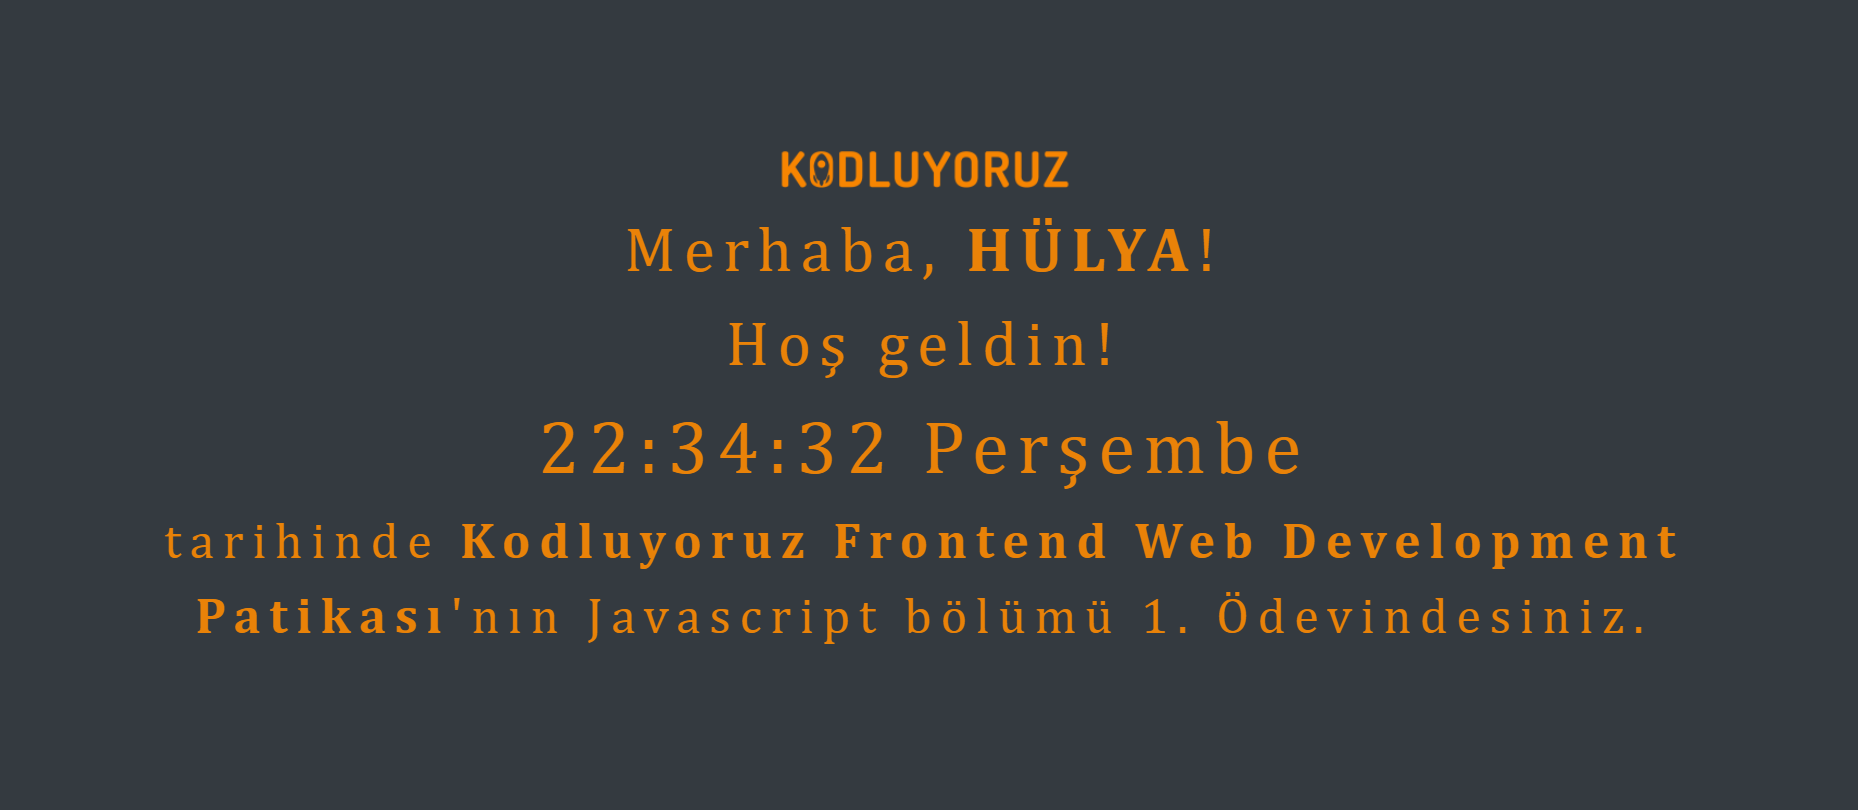
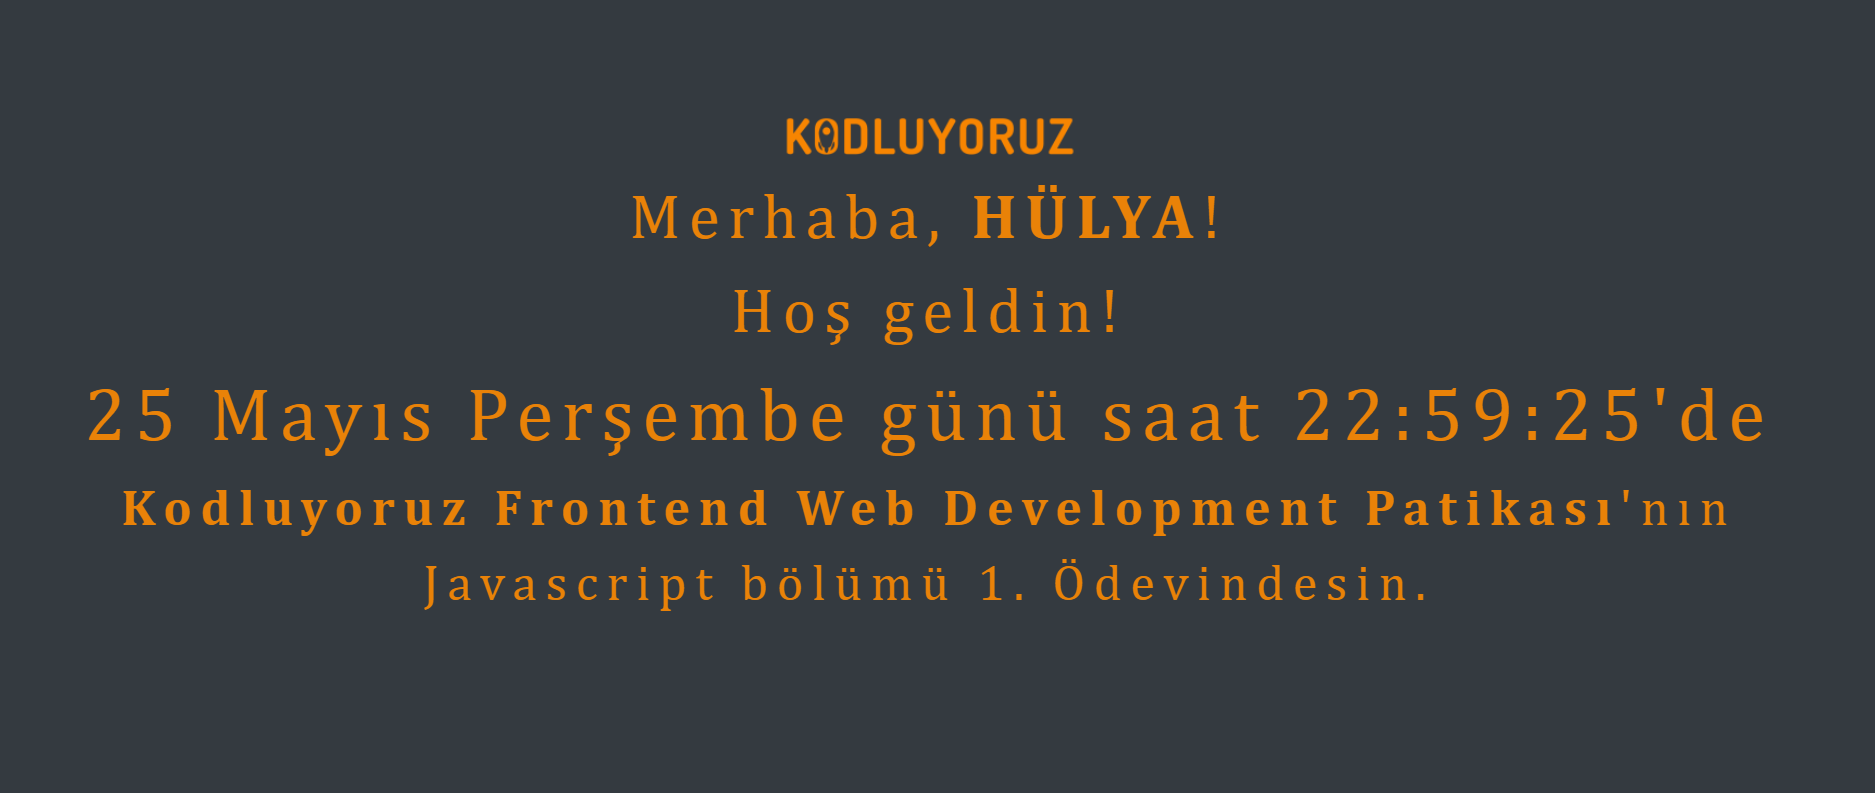
jsödev1

Changed region(s): [[0.0312, 0.4842, 0.9365, 0.7869], [0.3122, 0.1513, 0.6555, 0.3329], [0.3746, 0.3632, 0.5931, 0.4842]]

diff --git a/javascript/odev1-saatvekarsilama/index.html b/javascript/odev1-saatvekarsilama/index.html
@@ -26,9 +26,8 @@
       </div>
       <div id="myClock" class="clock" onload="showTime()"></div>
       <div class="text2 text-center">
-        tarihinde
         <strong >Kodluyoruz Frontend Web Development Patikası</strong>'nın
-        Javascript bölümü 1. Ödevindesiniz.
+        Javascript bölümü 1. Ödevindesin.
       </div>
     </div>
     <script src="clock.js"></script>
